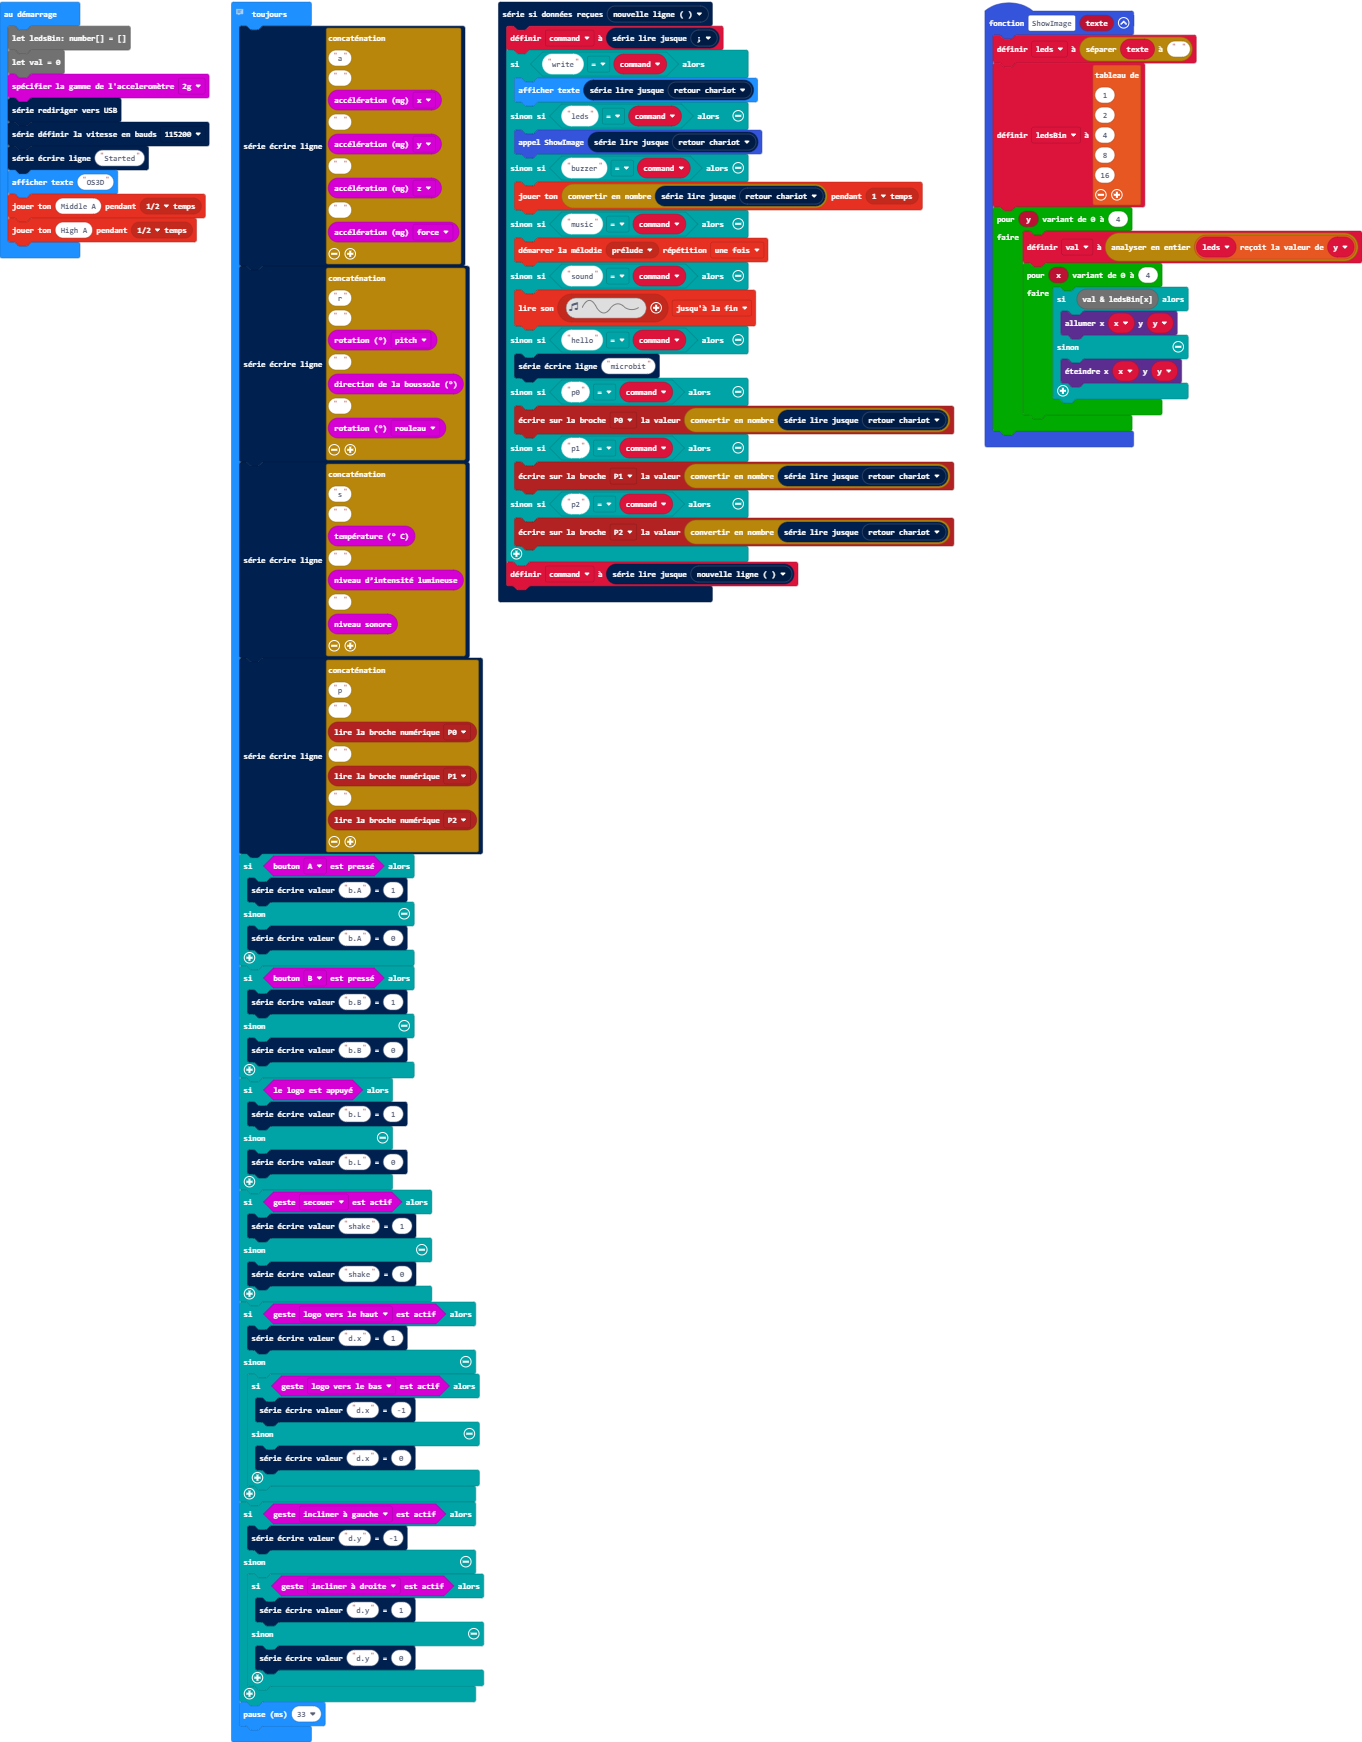
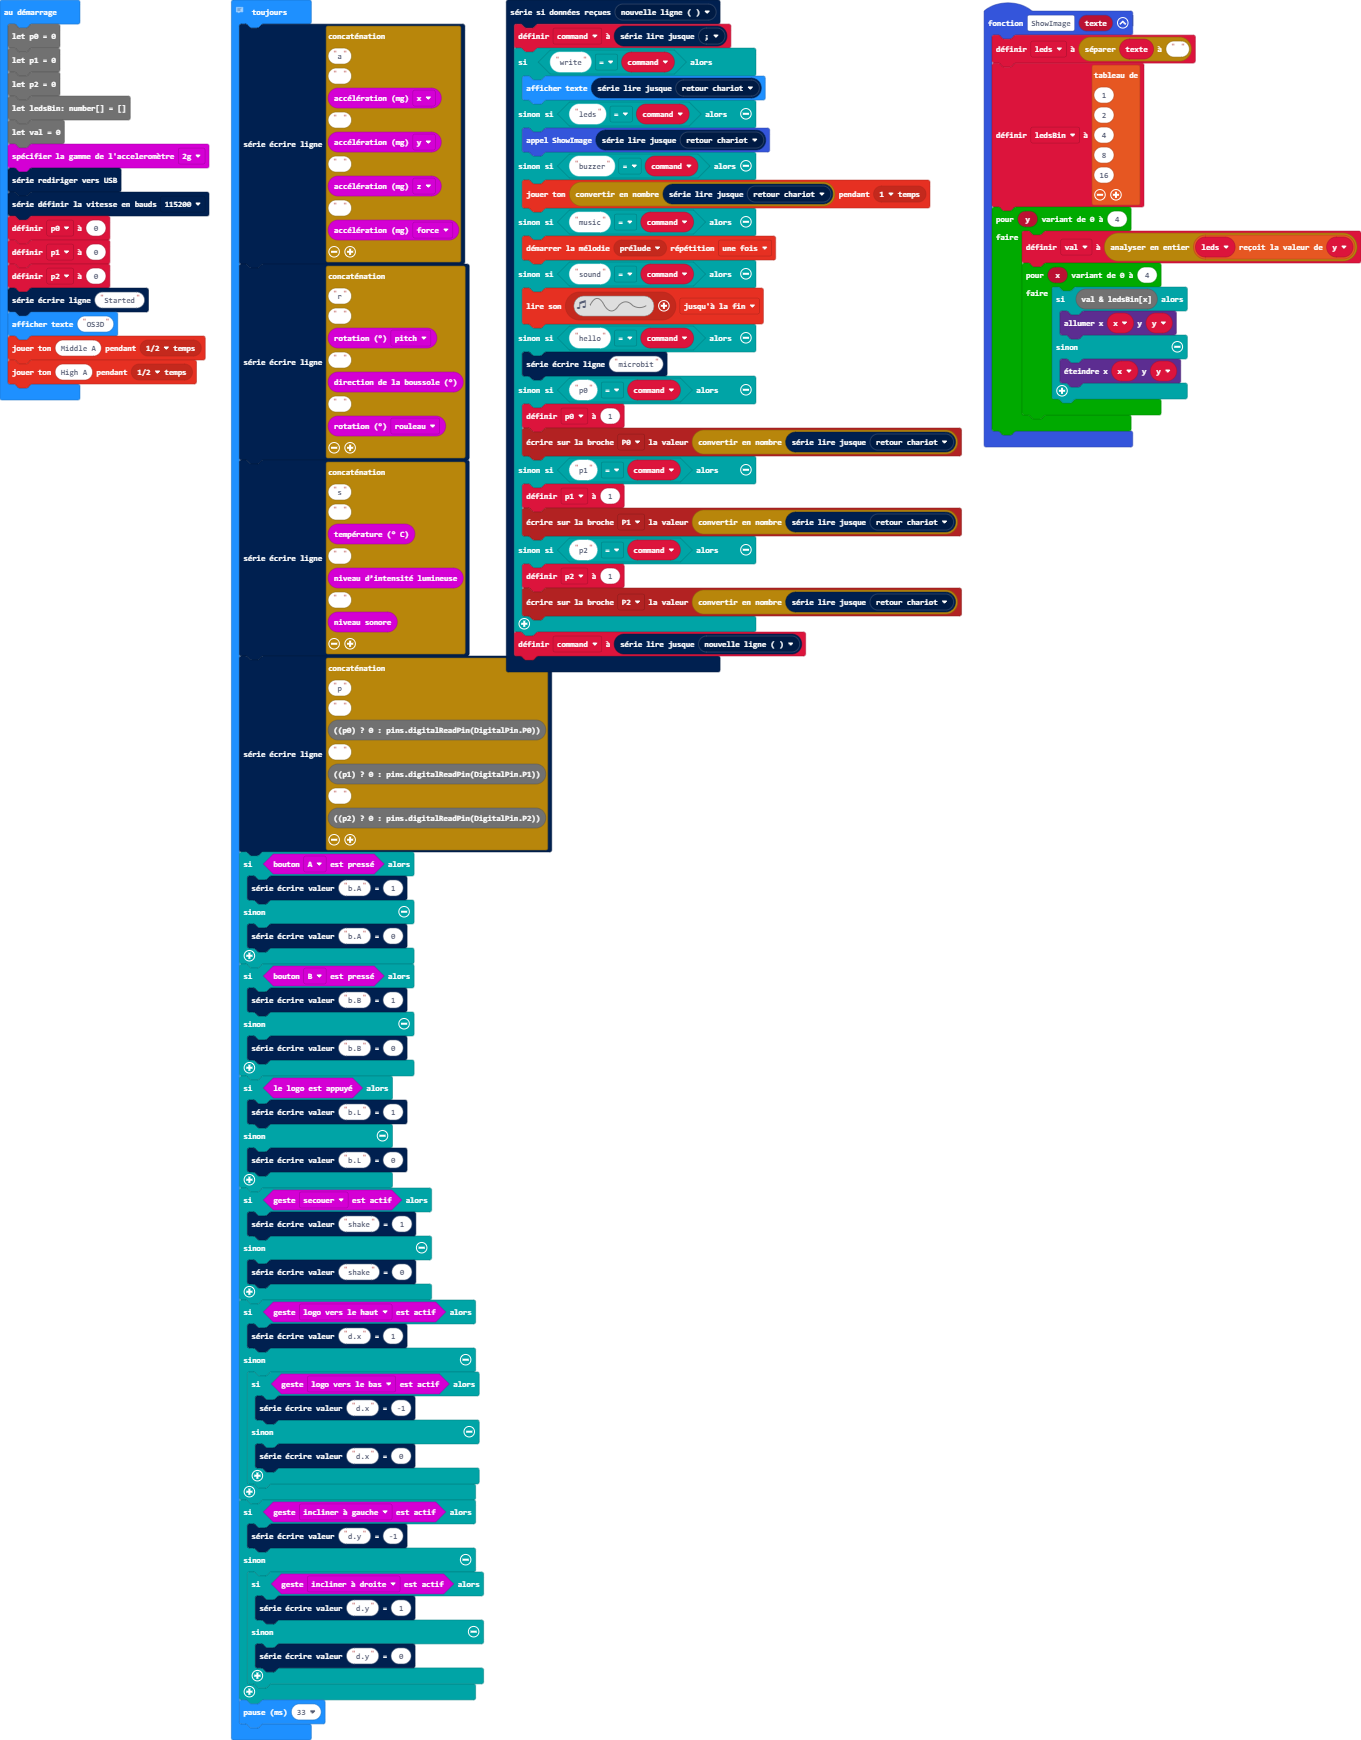
Mise à jour main.blocks, main.ts

diff --git a/main.ts b/main.ts
@@ -33,21 +33,30 @@ serial.onDataReceived(serial.delimiters(Delimiters.NewLine), function () {
     } else if ("hello" == command) {
         serial.writeLine("microbit")
     } else if ("p0" == command) {
+        p0 = 1
         pins.digitalWritePin(DigitalPin.P0, parseFloat(serial.readUntil(serial.delimiters(Delimiters.CarriageReturn))))
     } else if ("p1" == command) {
+        p1 = 1
         pins.digitalWritePin(DigitalPin.P1, parseFloat(serial.readUntil(serial.delimiters(Delimiters.CarriageReturn))))
     } else if ("p2" == command) {
+        p2 = 1
         pins.digitalWritePin(DigitalPin.P2, parseFloat(serial.readUntil(serial.delimiters(Delimiters.CarriageReturn))))
     }
     command = serial.readUntil(serial.delimiters(Delimiters.NewLine))
 })
 let command = ""
 let leds: string[] = []
+let p0 = 0
+let p1 = 0
+let p2 = 0
 let ledsBin: number[] = []
 let val = 0
 input.setAccelerometerRange(AcceleratorRange.TwoG)
 serial.redirectToUSB()
 serial.setBaudRate(BaudRate.BaudRate115200)
+p0 = 0
+p1 = 0
+p2 = 0
 serial.writeLine("Started")
 basic.showString("OS3D")
 music.playTone(440, music.beat(BeatFraction.Half))
@@ -57,7 +66,7 @@ basic.forever(function () {
     serial.writeLine("a" + " " + input.acceleration(Dimension.X) + " " + input.acceleration(Dimension.Y) + " " + input.acceleration(Dimension.Z) + " " + input.acceleration(Dimension.Strength))
     serial.writeLine("r" + " " + input.rotation(Rotation.Pitch) + " " + input.compassHeading() + " " + input.rotation(Rotation.Roll))
     serial.writeLine("s" + " " + input.temperature() + " " + input.lightLevel() + " " + input.soundLevel())
-    serial.writeLine("p" + " " + pins.digitalReadPin(DigitalPin.P0) + " " + pins.digitalReadPin(DigitalPin.P1) + " " + pins.digitalReadPin(DigitalPin.P2))
+    serial.writeLine("p" + " " + ((p0) ? 0 : pins.digitalReadPin(DigitalPin.P0)) + " " + ((p1) ? 0 : pins.digitalReadPin(DigitalPin.P1)) + " " + ((p2) ? 0 : pins.digitalReadPin(DigitalPin.P2)))
     if (input.buttonIsPressed(Button.A)) {
         serial.writeValue("b.A", 1)
     } else {
